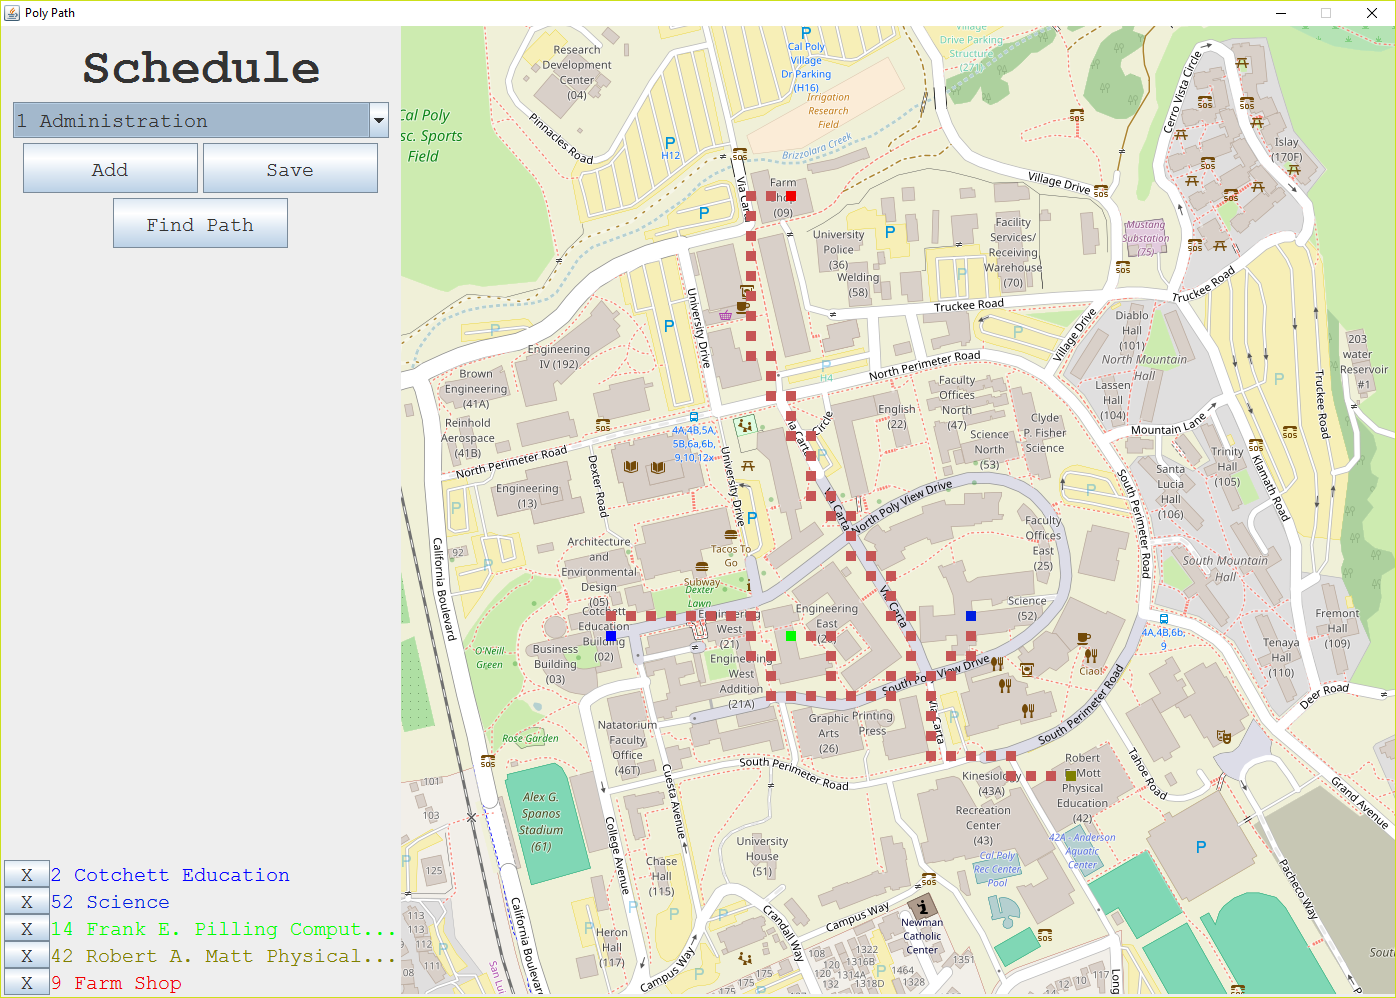
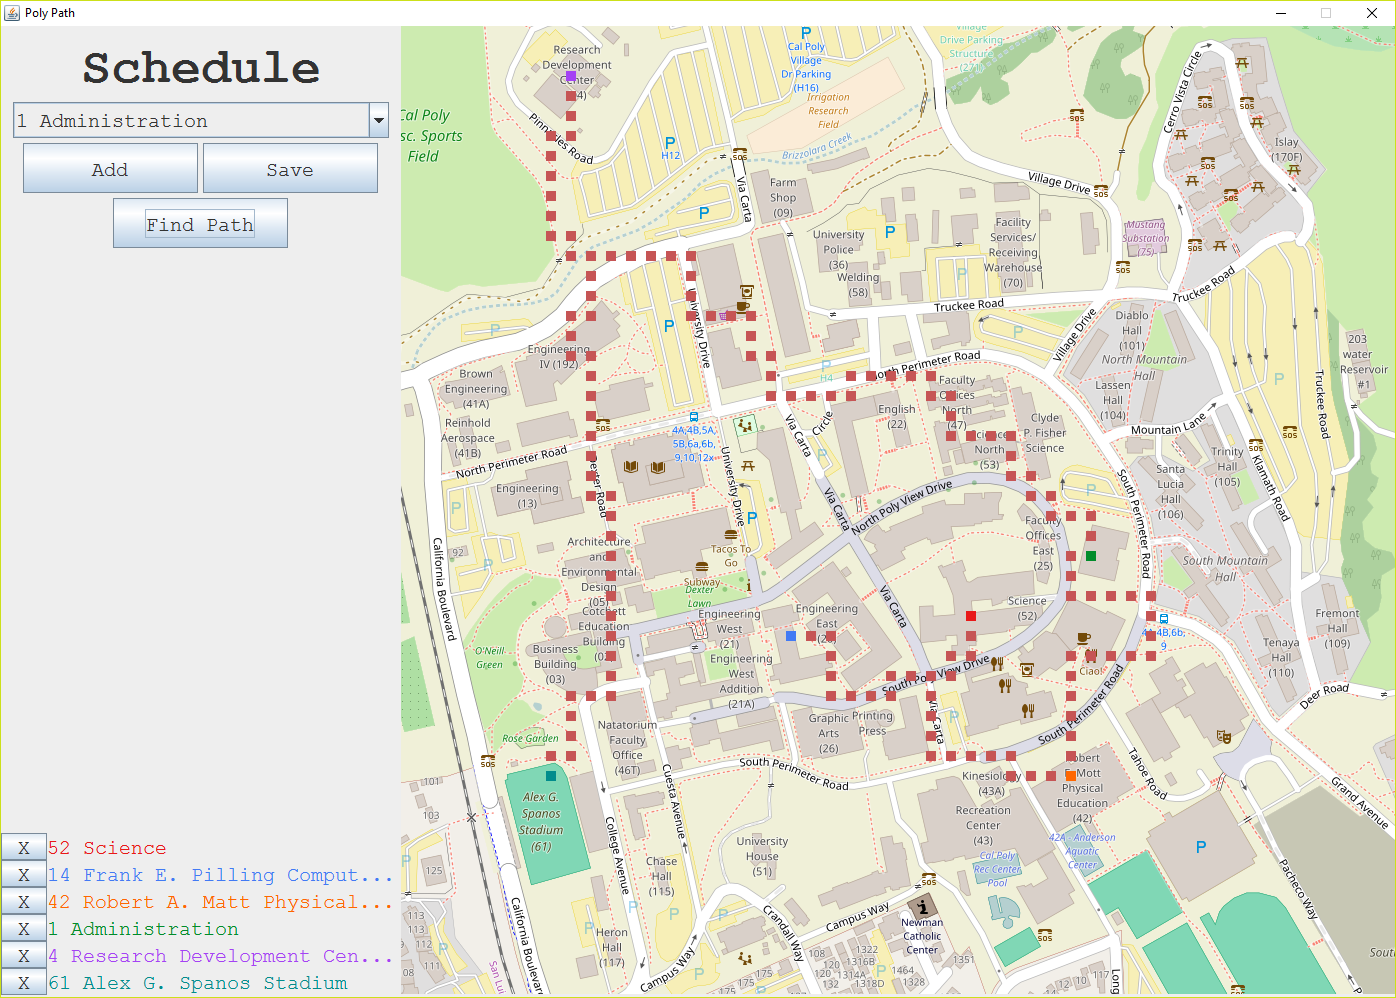
Testing and updated picture.

diff --git a/src/alexanderraymartin/ui/Screen.java b/src/alexanderraymartin/ui/Screen.java
@@ -34,6 +34,20 @@ public class Screen extends JFrame {
   private static final long serialVersionUID = 1L;
 
   private static final String FONT_TITLE = "Courier";
+
+  private static final int RED = 0xe81919;
+  private static final int BLUE = 0x427af4;
+  private static final int ORANGE = 0xff6600;
+  private static final int GREEN = 0x018c2b;
+  private static final int PURPLE = 0xa442f4;
+  private static final int TEAL = 0x18c8c;
+  private static final int PINK = 0xf442c2;
+
+  /**
+   * Array containing the hex values for predefined colors.
+   */
+  public static final int[] COLORS = new int[] {RED, BLUE, ORANGE, GREEN, PURPLE, TEAL, PINK};
+
   /**
    * The UI width.
    */
@@ -203,7 +217,7 @@ public class Screen extends JFrame {
 
   private void setLabelColor() {
     for (int i = 0; i < classLabels.size(); i++) {
-      classLabels.get(i).setForeground(new Color(0x0000ff << (i * 5)));
+      classLabels.get(i).setForeground(new Color(COLORS[i % COLORS.length]));
     }
   }
 

diff --git a/test/alexanderraymartin/save/test/ScheduleTest.java b/test/alexanderraymartin/save/test/ScheduleTest.java
@@ -1,0 +1,39 @@
+package alexanderraymartin.save.test;
+
+import alexanderraymartin.save.Schedule;
+
+import org.junit.Test;
+
+public class ScheduleTest {
+
+  @Test
+  public void test() {
+    Schedule schedule = Schedule.getInstance();
+    assert (schedule != null);
+  }
+
+  @Test
+  public void test2() {
+    Schedule schedule = Schedule.getInstance();
+    assert (schedule.getClasses() != null);
+  }
+
+  @Test
+  public void test3() {
+    Schedule.setSchedule(Schedule.getInstance());
+    assert (Schedule.getInstance() != null);
+  }
+
+  @Test
+  public void test4() {
+    Schedule schedule = Schedule.getInstance();
+    assert (schedule.getBuildingIndex(null) == -1);
+  }
+
+  @Test
+  public void test5() {
+    Schedule schedule = Schedule.getInstance();
+    schedule.removeBuilding(null);
+    assert (true);
+  }
+}

diff --git a/src/alexanderraymartin/ui/Map.java b/src/alexanderraymartin/ui/Map.java
@@ -106,7 +106,7 @@ public class Map extends JPanel {
     for (int i = 0; i < Graph.getBuildingNodes().size(); i++) {
       int xcoord = Graph.getBuildingNodes().get(i) % graph.getCols();
       int ycoord = Graph.getBuildingNodes().get(i) / graph.getCols();
-      drawSquare(graphics, new Color(0x0000ff << (i * 5)), xcoord, ycoord);
+      drawSquare(graphics, new Color(Screen.COLORS[i % Screen.COLORS.length]), xcoord, ycoord);
     }
   }
 

diff --git a/test/alexanderraymartin/main/test/MainTest.java b/test/alexanderraymartin/main/test/MainTest.java
@@ -1,0 +1,19 @@
+package alexanderraymartin.main.test;
+
+import alexanderraymartin.main.Main;
+
+import org.junit.Test;
+
+import java.util.logging.Logger;
+
+
+
+public class MainTest {
+
+  @Test
+  public void test() {
+    Logger log = Main.getLogger();
+    assert (log != null);
+  }
+
+}

diff --git a/test/alexanderraymartin/save/test/SaveTest.java b/test/alexanderraymartin/save/test/SaveTest.java
@@ -4,7 +4,7 @@ import alexanderraymartin.save.Save;
 
 import org.junit.Test;
 
-public class TestSave {
+public class SaveTest {
 
   @Test
   public void test() {
